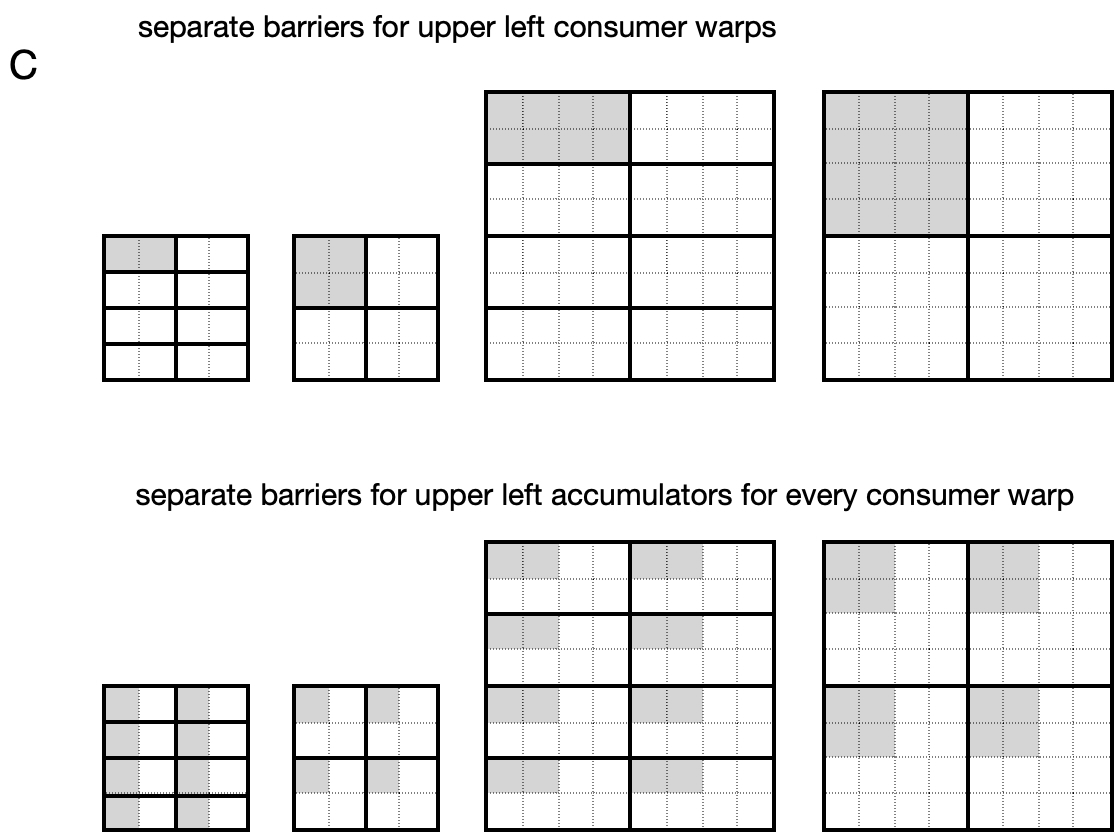
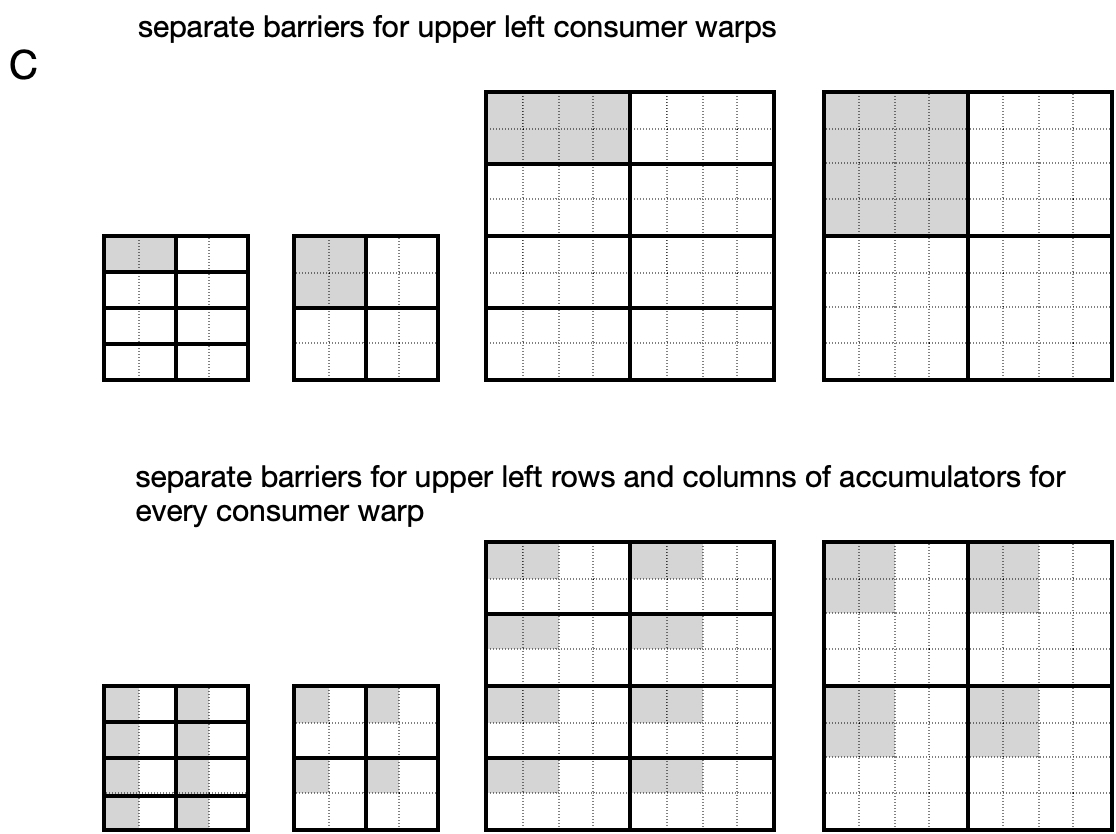
changed the figure of the synchronization scheme in matmul_shmem_tc_async_opt_port_2.cu; edited readme

Changed region(s): [[0.1219, 0.5612, 0.9749, 0.6235]]

diff --git a/README.md b/README.md
@@ -28,12 +28,12 @@ The synchronization scheme, provided in the `gemm_shmem_tc_async_opt_port` kerne
 
 # matmul_shmem_tc_async_opt_port_2.cu
 
-An optimization is designed with respect to the shift synchronization scheme at the level of accumulators that was implemented in `matmul_shmem_tc_async_opt_port_1.cu`. Instead of using separate barriers for every row and every column of a warp tile, separate barriers are used for the first few rows and the first few columns of a warp tile and the residual rows and columns of the warp tile are controlled with single barriers respectively.
+An optimization is designed with respect to the shift synchronization scheme implemented in `matmul_shmem_tc_async_opt_port_1.cu`. Instead of using separate barriers for every consumer warp or every row and column of a warp tile, separate barriers were used for the first few upper left consumer warps or the first few upper left rows and columns of a warp tile, and the residual consumer warps or rows and columns of a warp tile were controlled with single barriers. According to this optimization, an early start of matrix multiply and accumulate may be achieved with fewer barriers and a decreased synchronization overhead. Additionally, the ability to handle the rest of the warp tile with arrays of fragments was preserved.
 
 <br>
 
 <div align="center">
-    <img src="readme/shift_synchronization_opt.jpg" width="800"/>
+    <img src="readme/shift_synchronization_opt.jpg" width="700"/>
 </div>
 
 <br>
